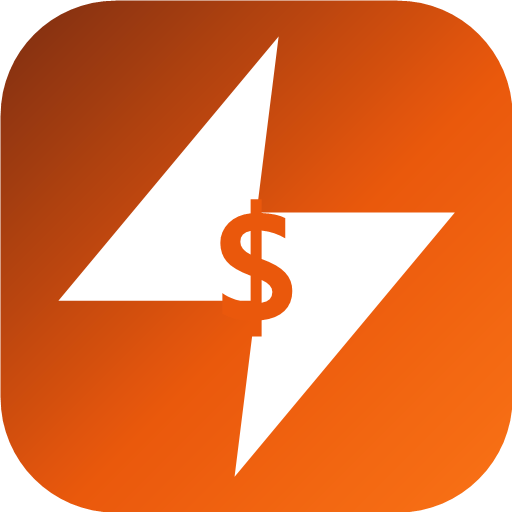
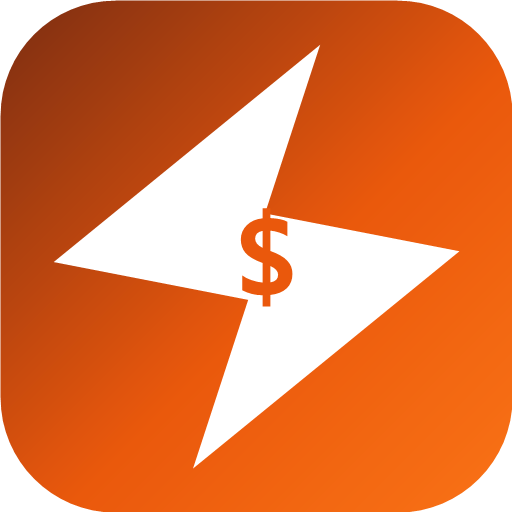
Tilt bolt + fit dollar; replace client with company; add job address; status emojis; new order email copy; desc price autofill

diff --git a/index.html b/index.html
@@ -238,11 +238,8 @@ textarea.finp{resize:vertical;min-height:80px;line-height:1.5;}
       </div>
       <div class="fgrid" style="margin-top:11px;">
         <div class="frow">
-          <label class="flbl">Client</label>
-          <select class="finp" id="f-clientsel" onchange="onClientChange()">
-            <option value="">Select client...</option>
-            <option value="__add__">+ Add new client...</option>
-          </select>
+          <label class="flbl">Company Name</label>
+          <input class="finp" id="f-company" placeholder="Company name" oninput="sv()"/>
         </div>
         <div class="frow">
           <label class="flbl">Project Manager</label>
@@ -264,11 +261,15 @@ textarea.finp{resize:vertical;min-height:80px;line-height:1.5;}
       <div class="frow" style="margin-top:11px;">
         <label class="flbl">Status</label>
         <select class="finp" id="f-status" onchange="sv()">
-          <option value="draft">Draft</option>
-          <option value="sent">Sent</option>
-          <option value="approved">Approved</option>
-          <option value="completed">Completed</option>
+          <option value="draft">🟡 Draft</option>
+          <option value="sent">🔵 Sent</option>
+          <option value="approved">🟢 Approved</option>
+          <option value="completed">✅ Completed</option>
         </select>
+      </div>
+      <div class="frow" style="margin-top:11px;">
+        <label class="flbl">Job Address</label>
+        <textarea class="finp" id="f-address" placeholder="Street, city, state" style="min-height:52px;" oninput="sv()"></textarea>
       </div>
       <div class="frow" style="margin-top:11px;">
         <label class="flbl">Job Notes</label>
@@ -661,18 +662,10 @@ textarea.finp{resize:vertical;min-height:80px;line-height:1.5;}
 <div id="manage-modal">
   <div id="manage-box">
     <div class="sm-hdr">
-      <h2>Clients &amp; Subs</h2>
+      <h2>Subs &amp; Prices</h2>
       <button class="sm-close" onclick="closeManage()">×</button>
     </div>
     <div id="manage-body">
-      <div class="mg-sec">
-        <div class="mg-h">Clients</div>
-        <div id="client-list"></div>
-        <div class="mg-add">
-          <input class="finp" id="new-client" placeholder="New client name"/>
-          <button class="mg-addbtn" onclick="addClient()">Add</button>
-        </div>
-      </div>
       <div class="mg-sec">
         <div class="mg-h">Subcontractors</div>
         <div id="sub-list"></div>
@@ -759,8 +752,8 @@ function newEst() {
   const id = uid();
   db.ests.unshift({
     id,
-    client: '', clientName: '', pm: '', pmOther: '',
-    status: 'draft', notes: '',
+    client: '', company: '', pm: '', pmOther: '',
+    status: 'draft', address: '', notes: '',
     lumber: [], hardware: [],
     pr: { auto: true, orv: 0, taxInc: true, tax: 0, ucMode: '%', ucVal: 20, buf: 300, delInc: true, del: 0 },
     lb: { name: '', days: '', daily: 0, hourly: 0, subCost: 0, subDemo: 0, cliLab: 0, cliDemo: 0 },
@@ -784,9 +777,7 @@ function loadForm(id) {
   if (!e) return;
   document.getElementById('hdr-title').textContent = e.client || 'New Estimate';
   document.getElementById('f-client').value = e.client || '';
-
-  // Client dropdown
-  populateClients(e.clientName || '');
+  document.getElementById('f-company').value = e.company || '';
 
   // PM dropdown
   const pmSel = document.getElementById('f-pm');
@@ -802,6 +793,7 @@ function loadForm(id) {
   }
 
   document.getElementById('f-status').value = e.status || 'draft';
+  document.getElementById('f-address').value = e.address || '';
   document.getElementById('f-notes').value = e.notes || '';
 
   const p = e.pr || {};
@@ -846,8 +838,7 @@ function sv() {
   if (!e) return;
 
   e.client = document.getElementById('f-client').value;
-  const clSel = document.getElementById('f-clientsel');
-  if (clSel.value !== '__add__') e.clientName = clSel.value;
+  e.company = document.getElementById('f-company').value;
   const pmSel = document.getElementById('f-pm');
   if (pmSel.value === '__other__') {
     e.pm = '';
@@ -857,6 +848,7 @@ function sv() {
     e.pmOther = '';
   }
   e.status = document.getElementById('f-status').value;
+  e.address = document.getElementById('f-address').value;
   e.notes = document.getElementById('f-notes').value;
   document.getElementById('hdr-title').textContent = e.client || 'New Estimate';
 
@@ -910,27 +902,6 @@ function onPMChange() {
   sv();
 }
 
-/* ── Clients dropdown ── */
-function populateClients(selected) {
-  const sel = document.getElementById('f-clientsel');
-  const opts = ['<option value="">Select client...</option>'];
-  db.clients.slice().sort((a, b) => a.localeCompare(b)).forEach(c => {
-    opts.push(`<option value="${esc(c)}">${esc(c)}</option>`);
-  });
-  opts.push('<option value="__add__">+ Add new client...</option>');
-  sel.innerHTML = opts.join('');
-  sel.value = (selected && db.clients.includes(selected)) ? selected : '';
-}
-function onClientChange() {
-  const sel = document.getElementById('f-clientsel');
-  if (sel.value === '__add__') {
-    const n = (prompt('New client name') || '').trim();
-    if (n) { if (!db.clients.includes(n)) db.clients.push(n); dbSave(); populateClients(n); }
-    else { populateClients((getEst(db.cur) || {}).clientName || ''); }
-  }
-  sv();
-}
-
 /* ── Subs dropdown ── */
 function populateSubs(selected) {
   const sel = document.getElementById('sub-sel');
@@ -971,25 +942,10 @@ function closeManage() {
   document.getElementById('manage-modal').classList.remove('on');
   if (document.getElementById('edit-view').classList.contains('on')) {
     const e = getEst(db.cur);
-    if (e) { populateClients(e.clientName || ''); populateSubs((e.lb && e.lb.name) || ''); }
+    if (e) { populateSubs((e.lb && e.lb.name) || ''); }
   }
 }
-function renderManage() { renderClients(); renderSubs(); renderPrices(); }
-
-function renderClients() {
-  const el = document.getElementById('client-list');
-  if (!db.clients.length) { el.innerHTML = '<div class="mg-empty">No clients yet.</div>'; return; }
-  el.innerHTML = db.clients.map((c, i) =>
-    `<div class="mg-row"><div class="nm">${esc(c)}</div><button class="mg-x" onclick="rmClient(${i})">×</button></div>`).join('');
-}
-function addClient() {
-  const inp = document.getElementById('new-client');
-  const n = (inp.value || '').trim();
-  if (!n) return;
-  if (!db.clients.includes(n)) db.clients.push(n);
-  inp.value = ''; dbSave(); renderClients();
-}
-function rmClient(i) { db.clients.splice(i, 1); dbSave(); renderClients(); }
+function renderManage() { renderSubs(); renderPrices(); }
 
 function renderSubs() {
   const el = document.getElementById('sub-list');
@@ -1133,7 +1089,7 @@ function renderItems(type, arr) {
     return `<tr>
       <td style="padding-left:10px;"><input class="iinp qty" type="number" min="1" value="${esc(it.qty||1)}" oninput="updItem('${type}',${i},'qty',this.value)"/></td>
       <td style="padding:5px 4px;"><input class="iinp" type="text" value="${esc(it.desc||'')}" placeholder="Description" style="width:100%;min-width:110px;" oninput="updItem('${type}',${i},'desc',this.value)"/></td>
-      <td><input class="iinp price" type="number" min="0" step="0.01" value="${esc(it.unitPrice||'')}" placeholder="—" oninput="updItem('${type}',${i},'unitPrice',this.value)"/></td>
+      <td><input class="iinp price" id="${type}-price-${i}" type="number" min="0" step="0.01" value="${esc(it.unitPrice||'')}" placeholder="—" oninput="updItem('${type}',${i},'unitPrice',this.value)"/></td>
       <td><div class="irow-tot" id="${type}-tot-${i}">${totHtml}</div></td>
       <td style="white-space:nowrap;padding-right:10px;text-align:right;"><button class="lkp-btn" onclick="lookupPrice('${type}',${i})" title="Look up price on Home Depot">🔍</button><button class="del-btn" onclick="rmItem('${type}',${i})">×</button></td>
     </tr>`;
@@ -1178,6 +1134,15 @@ function updItem(type, i, field, val) {
   if (field === 'unitPrice' && val !== '') {
     const k = priceKey(e[type][i].desc);
     if (k) db.prices[k] = parseFloat(val) || 0;
+  }
+  // autofill last-used price when a known material is typed in
+  if (field === 'desc') {
+    const k = priceKey(val);
+    if (k && db.prices[k] != null && (e[type][i].unitPrice === '' || e[type][i].unitPrice == null)) {
+      e[type][i].unitPrice = db.prices[k];
+      const pe = document.getElementById(`${type}-price-${i}`);
+      if (pe) pe.value = db.prices[k];
+    }
   }
   const q = parseFloat(e[type][i].qty) || 0, u = parseFloat(e[type][i].unitPrice) || 0;
   const totEl = document.getElementById(`${type}-tot-${i}`);
@@ -1305,7 +1270,7 @@ function renderList() {
   el.innerHTML=db.ests.map(e=>{
     const gt=calcGrandTotal(e), sc=colors[e.status]||'#94a3b8';
     const pmDisplay = e.pmOther || e.pm || '';
-    const meta=[e.clientName?esc(e.clientName):'',pmDisplay?'PM: '+esc(pmDisplay):'',`<span style="color:${sc};font-weight:700">${e.status||'draft'}</span>`].filter(Boolean).join(' · ');
+    const meta=[e.company?esc(e.company):'',pmDisplay?'PM: '+esc(pmDisplay):'',`<span style="color:${sc};font-weight:700">${e.status||'draft'}</span>`].filter(Boolean).join(' · ');
     return`<div class="est-card" onclick="goEdit('${e.id}')">
       <div class="ec-info">
         <div class="ec-name">${esc(e.client||'Untitled Estimate')}</div>
@@ -1331,11 +1296,12 @@ function orderMaterials() {
     alert('Add some lumber or hardware items first, then tap Order Materials.');
     return;
   }
-  const L = [];
-  L.push(`Material order for: ${e.client || 'Estimate'}`);
   const pm = e.pmOther || e.pm || '';
-  if (pm) L.push(`PM: ${pm}`);
+  const greet = pm ? `Hey ${pm},` : 'Hi,';
+  const L = [];
+  L.push(`${greet} here's an order for you. We'll be ready for this on ______. Let me know if you have any questions.`);
   L.push('');
+  if (e.address) { L.push(e.address); L.push(''); }
   if (lum.length) { L.push('LUMBER'); L.push(...lum); L.push(''); }
   if (hw.length)  { L.push('HARDWARE'); L.push(...hw); L.push(''); }
   const subject = `Material Order – ${e.client || 'Estimate'}`;
@@ -1361,8 +1327,9 @@ function showShare() {
 
   const lines=[];
   lines.push(e.client||'Estimate');
-  if(e.clientName) lines.push(`Client: ${e.clientName}`);
+  if(e.company) lines.push(`Company: ${e.company}`);
   if(pmLabel) lines.push(`PM: ${pmLabel}`);
+  if(e.address) lines.push(`Address: ${e.address}`);
   if(e.notes) lines.push(`\nNotes:\n${e.notes}`);
   if((e.lumber||[]).length){
     lines.push('\nLumber');